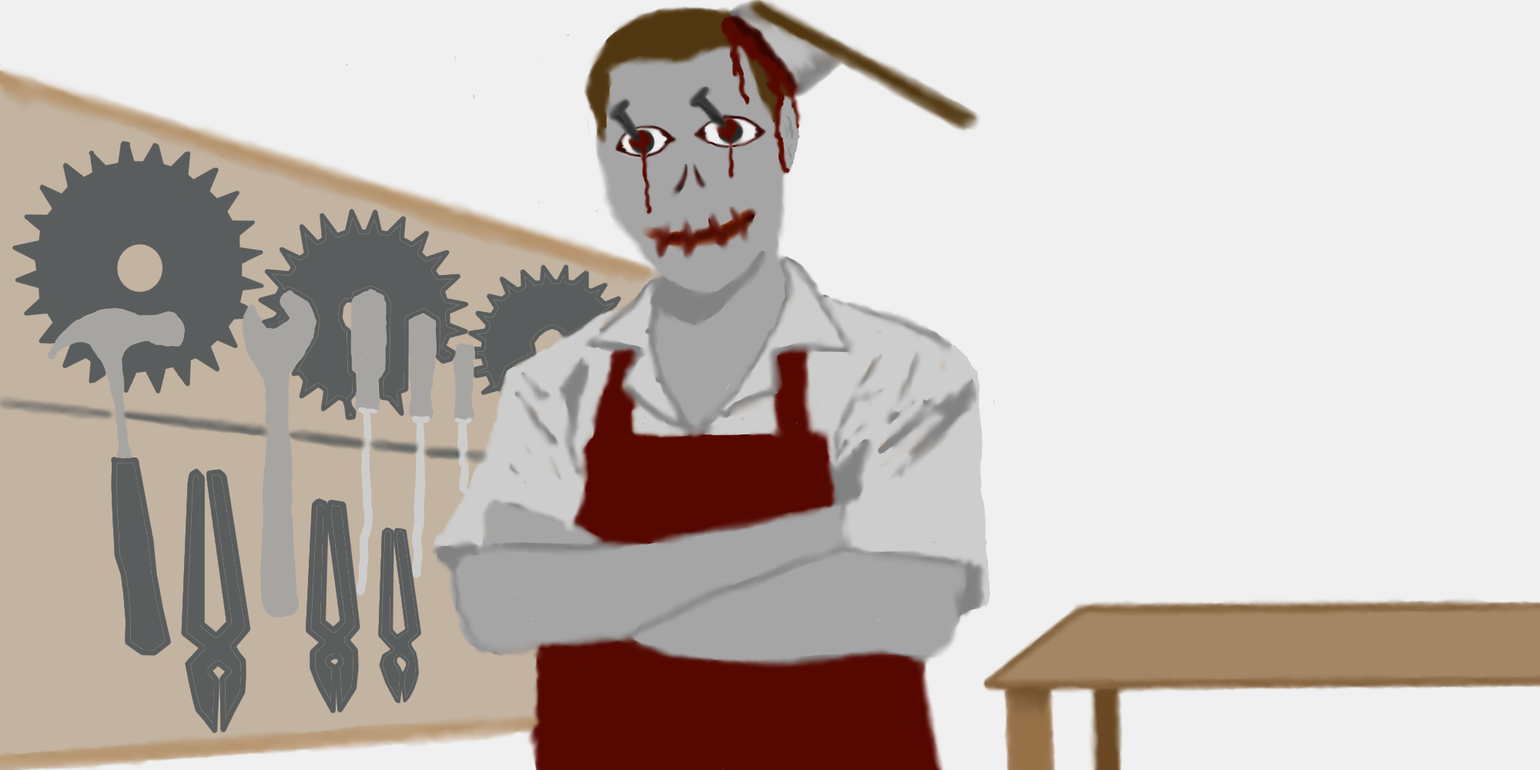
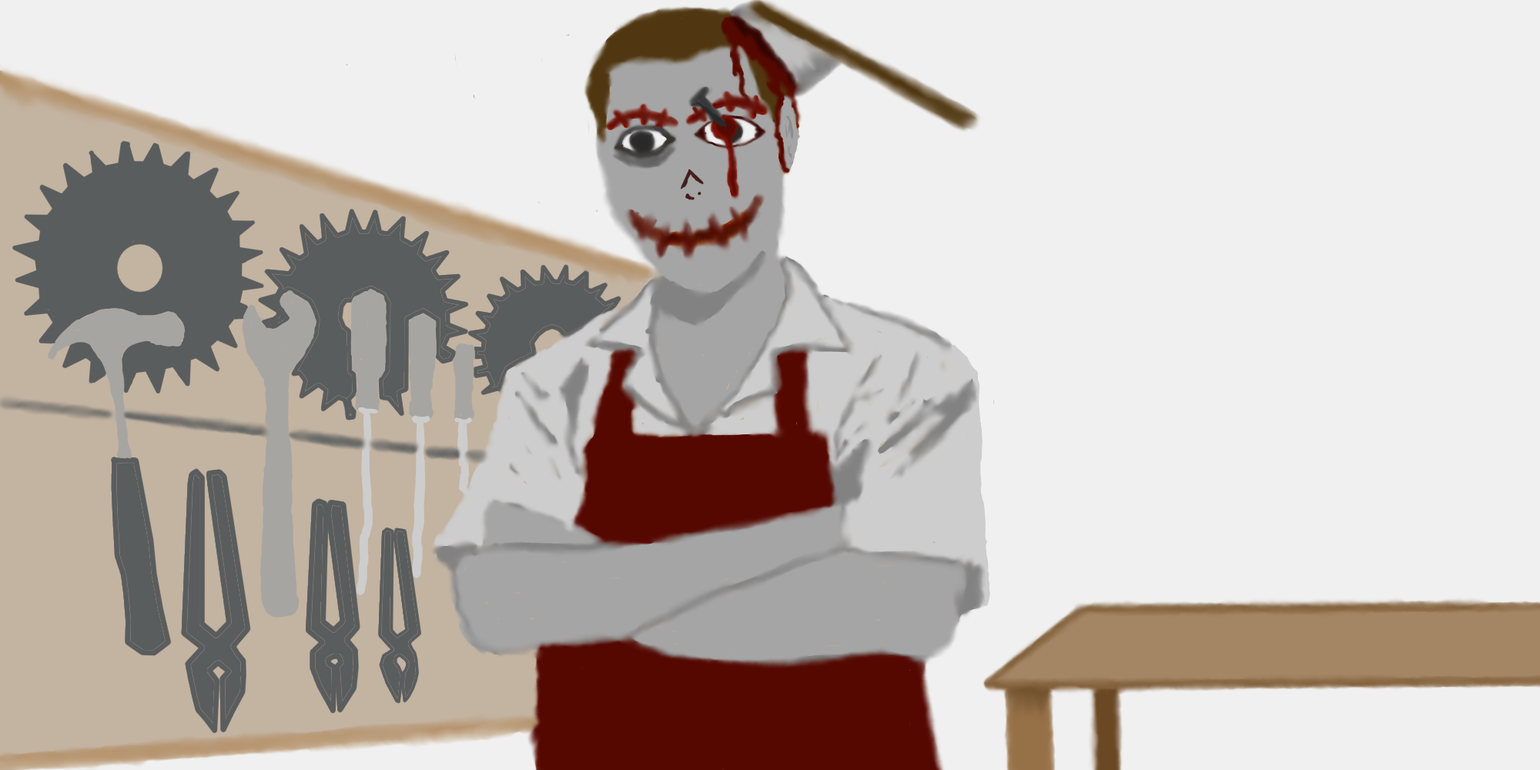
Added Stuff

Changed region(s): [[0.372, 0.124, 0.496, 0.31]]

diff --git a/IGJGameJam.html b/IGJGameJam.html
@@ -98,7 +98,7 @@ var LZString={_keyStr:"ABCDEFGHIJKLMNOPQRSTUVWXYZabcdefghijklmnopqrstuvwxyz01234
 		<div id="init-lacking">Your browser lacks required capabilities. Please upgrade it or switch to another to continue.</div>
 		<div id="init-loading"><div>Loading&hellip;</div></div>
 	</div>
-	<tw-storydata name="IGJGameJam" startnode="1" creator="Twine" creator-version="2.3.14" ifid="14B08805-4DF1-48CB-800A-F47E12B0D9BB" zoom="1" format="SugarCube" format-version="2.34.1" options="" hidden><style role="stylesheet" id="twine-user-stylesheet" type="text/twine-css">@import url('https://fonts.googleapis.com/css?family=Shadows+Into+Light');
+	<tw-storydata name="IGJGameJam" startnode="17" creator="Twine" creator-version="2.3.14" ifid="14B08805-4DF1-48CB-800A-F47E12B0D9BB" zoom="1" format="SugarCube" format-version="2.34.1" options="" hidden><style role="stylesheet" id="twine-user-stylesheet" type="text/twine-css">@import url('https://fonts.googleapis.com/css?family=Shadows+Into+Light');
 @import url('https://fonts.googleapis.com/css?family=Quicksand');
 @import url('https://fonts.googleapis.com/css?family=Electrolize');
 
@@ -121,6 +121,77 @@ img {
 @keyframes fade {
   from {opacity: 0;}
   to {opacity: 1;}
+}
+
+@keyframes shake {
+    0% {color: white}
+  10% {color: #111111}
+  20% {color: #111111}
+  30% {color: white}
+  40% {color: #111111}
+  50% {color: #111111}
+  60% {color: white}
+  70% {color: #111111}
+  80% {color: #111111}
+  90% {color: white}
+  100% {color: #111111}
+  
+}
+
+@keyframes blank {
+    0% {color: #111111}
+  10% {color: #111111}
+  20% {color: #111111}
+  30% {color: #111111}
+  40% {color: #111111}
+  50% {color: #111111}
+  60% {color: #111111}
+  70% {color: #111111}
+  80% {color: #111111}
+  90% {color: #111111}
+  100% {color: #111111}
+  
+}
+
+@keyframes show {
+    0% {color: white}
+  10% {color: white}
+  20% {color: white}
+  30% {color: white}
+  40% {color: white}
+  50% {color: white}
+  60% {color: white}
+  70% {color: white}
+  80% {color: white}
+  90% {color: white}
+  100% {color: white}
+  
+}
+
+.aftertext {
+  color: #111111;
+  animation: show 5s infinite;
+  animation-delay: 7s;
+}
+
+.darktext {
+ color: black; 
+}
+
+.aftertext a{
+  color: #111111;
+  animation: show 5s infinite;
+  animation-delay: 7s;
+}
+
+.flicker {
+  color: #111111;
+  animation: shake 1s 6;
+}
+
+.hiding {
+  animation: blank 1s infinite;
+  animation-delay: 6s;
 }
 
 .firstscene {
@@ -175,8 +246,22 @@ a:hover {
   font-family: Electrolize;
   color: Chartreuse;
   font-size: 500%;
+  animation: blank 1s infinite;
+  animation-delay: 5s;
+}
+
+.emails {
+  font-family: Electrolize;
+  color: Aqua;
+  font-size: 140%
+}
+
+.bold {
+  font-weight: bold;
+  text-decoration: underline;
+  font-size: 160%;
 }</style><script role="script" id="twine-user-script" type="text/twine-javascript">$('#ui-bar').remove();
-$(document.head).find('#style-ui-bar').remove();</script><tw-passagedata pid="1" name="Start" tags="" position="312,99" size="100,100">&lt;&lt;nobr&gt;&gt;
+$(document.head).find('#style-ui-bar').remove();</script><tw-passagedata pid="1" name="Start" tags="" position="307,69" size="100,100">&lt;&lt;nobr&gt;&gt;
 
 &lt;div class=&quot;firstscene&quot;&gt;
 &lt;div class=&quot;opening&quot; &gt;
@@ -207,6 +292,7 @@ To Do List:
 &lt;div class=&quot;gentext&quot;&gt;
 My first task for errand day is always to water my succulents. Otherwise they would die. They sit on the windowsill of the kitchen, getting just the right amount of sun. But lately they’ve been looking quite worse-for-wear. They must be craving something other than water and sunlight.
 &lt;br&gt;
+/*water sound*/
 No, I might have forgotten to water them last week somehow.
 &lt;&lt;set _img1 = &quot;images/plants2.png&quot;&gt;&gt;
 &lt;&lt;set _img2 = &quot;images/plants2.png&quot;&gt;&gt;
@@ -221,12 +307,15 @@ Now to check my emails. The ancient machine always struggles to boot up. It’s 
 &lt;&lt;cacheaudio &quot;computer-on&quot; &quot;https://static.wixstatic.com/mp3/cd6e16_8d407a33674b41da891d106cabb6f881.mp3&quot;&gt;&gt; 
 &lt;&lt;audio computer-on play&gt;&gt;
 &lt;br&gt;
+&lt;div class=&quot;hiding&quot;&gt;
 &lt;&lt;type 180ms&gt;&gt;
 &lt;span class=&quot;loadtext&quot;&gt;LOADING.....&lt;/span&gt;
 &lt;&lt;/type&gt;&gt;
 &lt;br&gt;
-A flicker.
+&lt;div class=&quot;flicker&quot;&gt;A flicker.&lt;/div&gt;
+&lt;/div&gt;
 &lt;br&gt;
+&lt;div class=&quot;aftertext&quot;&gt;
 Suddenly the screen is dark again and the house is filled with a deafening silence.
 &lt;br&gt;
 No rumbling from the fridge.
@@ -234,6 +323,7 @@ No rumbling from the fridge.
 No wheezing computer fans.
 &lt;br&gt;
 The power must have tripped. I’ll have to [[go down into the basement]]. 
+&lt;/div&gt;
 &lt;/div&gt;
 &lt;&lt;/nobr&gt;&gt;</tw-passagedata><tw-passagedata pid="4" name="go down into the basement" tags="" position="661,211" size="100,100">&lt;&lt;nobr&gt;&gt;
 &lt;div class=&quot;gentext&quot;&gt;
@@ -280,6 +370,7 @@ Just spam
 Now I can contend with my physical mail. I have some letters [[to send]] far away.
 &lt;/div&gt;
 &lt;&lt;/nobr&gt;&gt;</tw-passagedata><tw-passagedata pid="7" name="to send" tags="" position="363,387" size="100,100">&lt;&lt;nobr&gt;&gt;
+/*add audio*/
 &lt;&lt;set _img1 = &quot;images/mailbox1.png&quot;&gt;&gt;
 &lt;&lt;set _img2 = &quot;images/mailbox2.png&quot;&gt;&gt;
 /*insert picture*/
@@ -291,7 +382,7 @@ Ouch, I’m bleeding. Just a papercut, of course.
 &lt;br&gt;
 The mailbox is looking a bit rusty. I could get something for it when I [[go to the hardware store|tunnel]].
 &lt;/div&gt;
-&lt;&lt;/nobr&gt;&gt;</tw-passagedata><tw-passagedata pid="8" name="tunnel" tags="" position="531,444" size="100,100">&lt;&lt;nobr&gt;&gt;
+&lt;&lt;/nobr&gt;&gt;</tw-passagedata><tw-passagedata pid="8" name="tunnel" tags="" position="528,445" size="100,100">&lt;&lt;nobr&gt;&gt;
 /*water drop sound*/
 &lt;&lt;cacheaudio &quot;tunnel&quot; &quot;https://static.wixstatic.com/mp3/cd6e16_cd4844cdff204b4ab7221ab47256237f.mp3&quot;&gt;&gt;
 &lt;&lt;audio tunnel loop play&gt;&gt;
@@ -304,13 +395,13 @@ The tunnel is a much quicker way to get to town. Strange that it’s always so q
 onmouseover=&quot;this.src = SugarCube.State.temporary.img2&quot; onmouseleave=&quot;this.src = SugarCube.State.temporary.img1&quot;&gt;&lt;br&gt;
 The shadows are always playing tricks on my eyes. I’ll just pick up my pace as I [[go through|hardware store]]. 
 &lt;/div&gt;
-&lt;&lt;/nobr&gt;&gt;</tw-passagedata><tw-passagedata pid="9" name="hardware store" tags="" position="699,476" size="100,100">&lt;&lt;nobr&gt;&gt;
+&lt;&lt;/nobr&gt;&gt;</tw-passagedata><tw-passagedata pid="9" name="hardware store" tags="" position="693,470" size="100,100">&lt;&lt;nobr&gt;&gt;
 &lt;&lt;audio &quot;:all&quot; stop&gt;&gt;
 /*store bell sound*/
 &lt;div class=&quot;gentext&quot;&gt;
 
 The owner of the hardware store has always been very passionate about his work. He goes above and beyond to ensure his customers are happy.
-&lt;&lt;set _img1 = &quot;images/hardware2.png&quot;&gt;&gt;
+&lt;&lt;set _img1 = &quot;images/hardware1.png&quot;&gt;&gt;
 &lt;&lt;set _img2 = &quot;images/hardware2.png&quot;&gt;&gt;
 &lt;img @src=_img1 
 onmouseover=&quot;this.src = SugarCube.State.temporary.img2&quot; onmouseleave=&quot;this.src = SugarCube.State.temporary.img1&quot;&gt;
@@ -325,7 +416,7 @@ I choose one that’s just right for my needs. I pay for it. Now I can [[go to t
 The barber shop smells of disinfectant, shampoo, and… something else. Something familiar. I’m greeted cheerfully. The barber beckons to a chair and I take a seat. 
 &lt;br&gt;
 /*haircut sound*/
-&lt;&lt;set _img1 = &quot;images/barber2.png&quot;&gt;&gt;
+&lt;&lt;set _img1 = &quot;images/barber1.png&quot;&gt;&gt;
 &lt;&lt;set _img2 = &quot;images/barber2.png&quot;&gt;&gt;
 &lt;img @src=_img1 
 onmouseover=&quot;this.src = SugarCube.State.temporary.img2&quot; onmouseleave=&quot;this.src = SugarCube.State.temporary.img1&quot;&gt;
@@ -375,14 +466,77 @@ I’m finally on my way to buy milk. There’s a dog on the side of the road. It
 &lt;&lt;set _img1 = &quot;images/dog1.png&quot;&gt;&gt;
 &lt;&lt;set _img2 = &quot;images/dog2.png&quot;&gt;&gt;
 &lt;img @src=_img1 
-onmouseover=&quot;this.src = SugarCube.State.temporary.img2&quot; onmouseleave=&quot;this.src = SugarCube.State.temporary.img1&quot;&gt;/*growling noise*/
+onmouseover=&quot;this.src = SugarCube.State.temporary.img2&quot; onmouseleave=&quot;this.src = SugarCube.State.temporary.img1&quot;&gt;
+/*growling noise*/
 Or is it…? No, can’t be.
 &lt;br&gt;
 It’s probably just dirty. Its fur must be matted. 
 &lt;br&gt;
 Nevermind. I need to [[get to the grocery store]].
 &lt;/div&gt;
-&lt;&lt;/nobr&gt;&gt;</tw-passagedata><tw-passagedata pid="13" name="get to the grocery store" tags="" position="859,487" size="100,100">Double-click this passage to edit it.</tw-passagedata></tw-storydata>
+&lt;&lt;/nobr&gt;&gt;</tw-passagedata><tw-passagedata pid="13" name="get to the grocery store" tags="" position="941,573" size="100,100">&lt;&lt;nobr&gt;&gt;
+/*buzzing fridge sound*/
+&lt;div class=&quot;gentext&quot;&gt;
+It’s getting dark now but the grocery store is painfully bright. The fluorescent lights reveal how old and dingy the store is. I head to the fridge section.
+&lt;br&gt;
+Ah, milk. I’ll be able to have breakfast tomorrow.
+&lt;br&gt;
+/*insert picture*/
+&lt;&lt;set _img1 = &quot;images/shopkeeper1.png&quot;&gt;&gt;
+&lt;&lt;set _img2 = &quot;images/shopkeeper2.png&quot;&gt;&gt;
+&lt;img @src=_img1 
+onmouseover=&quot;this.src = SugarCube.State.temporary.img2&quot; onmouseleave=&quot;this.src = SugarCube.State.temporary.img1&quot;&gt;
+The cashier smiles. It seems like she knows I can see now. I can cross off the final task on my to-do list and [[go home]]. 
+&lt;/div&gt;
+&lt;&lt;/nobr&gt;&gt;</tw-passagedata><tw-passagedata pid="14" name="go home" tags="" position="397,576" size="100,100">&lt;&lt;nobr&gt;&gt;
+&lt;div class=&quot;gentext&quot;&gt;
+Today was… eye-opening. 
+All this time I had convinced myself of a false reality. I had been living in ignorance of my true surroundings.
+/*insert pciture*/
+&lt;&lt;set _img1 = &quot;images/mirror1.png&quot;&gt;&gt;
+&lt;&lt;set _img2 = &quot;images/mirror2.png&quot;&gt;&gt;
+&lt;img @src=_img1 
+onmouseover=&quot;this.src = SugarCube.State.temporary.img2&quot; onmouseleave=&quot;this.src = SugarCube.State.temporary.img1&quot;&gt;
+&lt;br&gt;
+But now the fog that had shrouded my mind has been lifted. I see everything in its true form. 
+&lt;br&gt;
+I see myself in [[my true form]].
+&lt;/div&gt;
+&lt;&lt;/nobr&gt;&gt;</tw-passagedata><tw-passagedata pid="15" name="my true form" tags="" position="792,610" size="100,100">&lt;&lt;nobr&gt;&gt;
+&lt;div class=&quot;gentext&quot;&gt;
+As always, the second moon is leering over the horizon. Just an ordinary day.
+/*insert moon pic*/
+&lt;img src=&quot;images/window_night.png&quot;&gt;
+&lt;br&gt;
+The End
+&lt;br&gt;
+
+[[Credits]]
+
+&lt;/div&gt;
+
+&lt;&lt;/nobr&gt;&gt;</tw-passagedata><tw-passagedata pid="16" name="Credits" tags="" position="552,665" size="100,100">&lt;&lt;nobr&gt;&gt;
+&lt;div class=&quot;gentext&quot;&gt;
+&lt;span class=&quot;bold&quot;&gt;Team Lactose Intolerance&lt;/span&gt;
+&lt;br&gt;
+Erin Hutton
+&lt;br&gt;
+Fefe Magabeane
+&lt;br&gt;
+Michaela du Preez
+&lt;br&gt;
+Sabelo Nkwanyana
+&lt;br&gt;
+Brendan Jackson
+&lt;/div&gt;
+&lt;&lt;/nobr&gt;&gt;</tw-passagedata><tw-passagedata pid="17" name="Menu" tags="" position="137,84.5" size="100,100">&lt;&lt;nobr&gt;&gt;
+&lt;div class=&quot;gentext&quot;&gt;
+&lt;span class=&quot;bold&quot;&gt;An Ordinary Day &lt;/span&gt;
+/*picture*/
+&lt;br&gt;
+[[Begin|Start]]
+&lt;/div&gt;
+&lt;&lt;/nobr&gt;&gt;</tw-passagedata></tw-storydata>
 	<script id="script-sugarcube" type="text/javascript">
 	/*! SugarCube JS */
 	if(document.documentElement.getAttribute("data-init")==="loading"){!function(window,document,jQuery,undefined){"use strict";function _classCallCheck(e,t){if(!(e instanceof t))throw new TypeError("Cannot call a class as a function")}function _toConsumableArray(e){if(Array.isArray(e)){for(var t=0,r=Array(e.length);t<e.length;t++)r[t]=e[t];return r}return Array.from(e)}var _createClass=function(){function e(e,t){for(var r=0;r<t.length;r++){var n=t[r];n.enumerable=n.enumerable||!1,n.configurable=!0,"value"in n&&(n.writable=!0),Object.defineProperty(e,n.key,n)}}return function(t,r,n){return r&&e(t.prototype,r),n&&e(t,n),t}}(),_slicedToArray=function(){function e(e,t){var r=[],n=!0,a=!1,i=undefined;try{for(var o,s=e[Symbol.iterator]();!(n=(o=s.next()).done)&&(r.push(o.value),!t||r.length!==t);n=!0);}catch(e){a=!0,i=e}finally{try{!n&&s.return&&s.return()}finally{if(a)throw i}}return r}return function(t,r){if(Array.isArray(t))return t;if(Symbol.iterator in Object(t))return e(t,r);throw new TypeError("Invalid attempt to destructure non-iterable instance")}}(),_typeof="function"==typeof Symbol&&"symbol"==typeof Symbol.iterator?function(e){return typeof e}:function(e){return e&&"function"==typeof Symbol&&e.constructor===Symbol&&e!==Symbol.prototype?"symbol":typeof e},errorPrologRegExp=/^(?:(?:uncaught\s+(?:exception:\s+)?)?\w*(?:error|exception|_err):\s+)+/i,Alert=function(){function e(e,t,r,n){var a="fatal"===e,i="Apologies! "+(a?"A fatal":"An")+" error has occurred.";i+=a?" Aborting.":" You may be able to continue, but some parts may not work properly.",null==t&&null==r||(i+="\n\nError",null!=t&&(i+=" ["+t+"]"),i+=null!=r?": "+r.replace(errorPrologRegExp,"")+".":": unknown error."),"object"===(void 0===n?"undefined":_typeof(n))&&null!==n&&n.stack&&(i+="\n\nStack Trace:\n"+n.stack),window.alert(i)}function t(t,r,n){e(null,t,r,n)}function r(t,r,n){e("fatal",t,r,n)}return function(e){window.onerror=function(n,a,i,o,s){"complete"===document.readyState?t(null,n,s):(r(null,n,s),window.onerror=e,"function"==typeof window.onerror&&window.onerror.apply(this,arguments))}}(window.onerror),Object.freeze(Object.defineProperties({},{error:{value:t},fatal:{value:r}}))}(),Patterns=function(){var e=function(){var e=new Map([[" ","\\u0020"],["\f","\\f"],["\n","\\n"],["\r","\\r"],["\t","\\t"],["\v","\\v"],[" ","\\u00a0"],[" ","\\u1680"],["","\\u180e"],[" ","\\u2000"],[" ","\\u2001"],[" ","\\u2002"],[" ","\\u2003"],[" ","\\u2004"],[" ","\\u2005"],[" ","\\u2006"],[" ","\\u2007"],[" ","\\u2008"],[" ","\\u2009"],[" ","\\u200a"],["\u2028","\\u2028"],["\u2029","\\u2029"],[" ","\\u202f"],[" ","\\u205f"],["　","\\u3000"],["\ufeff","\\ufeff"]]),t=/^\s$/,r="";return e.forEach(function(e,n){t.test(n)||(r+=e)}),r?"[\\s"+r+"]":"\\s"}(),t="[\\u0020\\f\\t\\v\\u00a0\\u1680\\u180e\\u2000-\\u200a\\u202f\\u205f\\u3000\\ufeff]",r="\\s"===e?"\\S":e.replace(/^\[/,"[^"),n="[0-9A-Z_a-z\\-\\u00c0-\\u00d6\\u00d8-\\u00f6\\u00f8-\\u00ff\\u0150\\u0170\\u0151\\u0171]",a=n.replace("\\-",""),i=function(){var e="(?:[\\x2D.0-9A-Z_a-z\\xB7\\xC0-\\xD6\\xD8-\\xF6\\xF8-\\u037D\\u037F-\\u1FFF\\u200C\\u200D\\u203F\\u2040\\u2070-\\u218F\\u2C00-\\u2FEF\\u3001-\\uD7FF\\uF900-\\uFDCF\\uFDF0-\\uFFFD]|[\\uD800-\\uDB7F][\\uDC00-\\uDFFF])";return"[A-Za-z](?:"+e+"*-"+e+"*|[0-9A-Za-z]*)"}(),o=function(){return"("+n+"+)\\(([^\\)\\|\\n]+)\\):|"+t+"*("+n+"+)"+t+"*:([^;\\|\\n]+);|"+t+"*((?:[#.]"+n+"+"+t+"*)+);"}();return Object.freeze({space:e,spaceNoTerminator:t,lineTerminator:"[\\n\\r\\u2028\\u2029]",notSpace:r,anyChar:"(?:.|[\\n\\r\\u2028\\u2029])",anyLetter:n,anyLetterStrict:a,identifierFirstChar:"[$A-Z_a-z]",identifierNextChar:"[$0-9A-Z_a-z]",identifier:"[$A-Z_a-z][$0-9A-Z_a-z]*",variableSigil:"[$_]",variable:"[$_][$A-Z_a-z][$0-9A-Z_a-z]*",macroName:"[A-Za-z][\\w-]*|[=-]",templateName:"[A-Za-z][\\w-]*",htmlTagName:i,cssIdOrClassSigil:"[#.]",cssImage:"\\[[<>]?[Ii][Mm][Gg]\\[(?:\\s|\\S)*?\\]\\]+",inlineCss:o,url:"(?:file|https?|mailto|ftp|javascript|irc|news|data):[^\\s'\"]+"})}();!function(){function e(e,t){var r=Number.parseInt(e,10)||0;if(r<1)return"";var n=void 0===t?"":String(t);for(""===n&&(n=" ");n.length<r;){var a=n.length,i=r-a;n+=a>i?n.slice(0,i):n}return n.length>r&&(n=n.slice(0,r)),n}var t=function(){function e(e,n){var a=String(e);if(!a)return a;switch(n){case"start":return t.test(a)?a.replace(t,""):a;case"end":return r.test(a)?a.replace(r,""):a;default:throw new Error('_trimString called with incorrect where parameter value: "'+n+'"')}}var t=new RegExp("^"+Patterns.space+Patterns.space+"*"),r=new RegExp(""+Patterns.space+Patterns.space+"*$");return e}();Array.prototype.flat||Object.defineProperty(Array.prototype,"flat",{configurable:!0,writable:!0,value:function(){function e(){if(null==this)throw new TypeError("Array.prototype.flat called on null or undefined");var t=0===arguments.length?1:Number(arguments[0])||0;return t<1?Array.prototype.slice.call(this):Array.prototype.reduce.call(this,function(r,n){return n instanceof Array?r.push.apply(r,_toConsumableArray(e.call(n,t-1))):r.push(n),r},[])}return e}()}),Array.prototype.flatMap||Object.defineProperty(Array.prototype,"flatMap",{configurable:!0,writable:!0,value:function(){if(null==this)throw new TypeError("Array.prototype.flatMap called on null or undefined");return Array.prototype.map.apply(this,arguments).flat()}}),Array.prototype.includes||Object.defineProperty(Array.prototype,"includes",{configurable:!0,writable:!0,value:function(){if(null==this)throw new TypeError("Array.prototype.includes called on null or undefined");if(0===arguments.length)return!1;var e=this.length>>>0;if(0===e)return!1;var t=arguments[0],r=Number(arguments[1])||0;for(r<0&&(r=Math.max(0,e+r));r<e;++r){var n=this[r];if(n===t||n!==n&&t!==t)return!0}return!1}}),Object.entries||Object.defineProperty(Object,"entries",{configurable:!0,writable:!0,value:function(e){if("object"!==(void 0===e?"undefined":_typeof(e))||null===e)throw new TypeError("Object.entries object parameter must be an object");return Object.keys(e).map(function(t){return[t,e[t]]})}}),Object.fromEntries||Object.defineProperty(Object,"fromEntries",{configurable:!0,writable:!0,value:function(e){return Array.from(e).reduce(function(e,t){if(Object(t)!==t)throw new TypeError("Object.fromEntries iterable parameter must yield objects");return t[0]in e?Object.defineProperty(e,t[0],{configurable:!0,enumerable:!0,writable:!0,value:t[1]}):e[t[0]]=t[1],e},{})}}),Object.getOwnPropertyDescriptors||Object.defineProperty(Object,"getOwnPropertyDescriptors",{configurable:!0,writable:!0,value:function(e){if(null==e)throw new TypeError("Object.getOwnPropertyDescriptors object parameter is null or undefined");var t=Object(e);return Reflect.ownKeys(t).reduce(function(e,r){var n=Object.getOwnPropertyDescriptor(t,r);return void 0!==n&&(r in e?Object.defineProperty(e,r,{configurable:!0,enumerable:!0,writable:!0,value:n}):e[r]=n),e},{})}}),Object.values||Object.defineProperty(Object,"values",{configurable:!0,writable:!0,value:function(e){if("object"!==(void 0===e?"undefined":_typeof(e))||null===e)throw new TypeError("Object.values object parameter must be an object");return Object.keys(e).map(function(t){return e[t]})}}),String.prototype.padStart||Object.defineProperty(String.prototype,"padStart",{configurable:!0,writable:!0,value:function(t,r){if(null==this)throw new TypeError("String.prototype.padStart called on null or undefined");var n=String(this),a=n.length,i=Number.parseInt(t,10);return i<=a?n:e(i-a,r)+n}}),String.prototype.padEnd||Object.defineProperty(String.prototype,"padEnd",{configurable:!0,writable:!0,value:function(t,r){if(null==this)throw new TypeError("String.prototype.padEnd called on null or undefined");var n=String(this),a=n.length,i=Number.parseInt(t,10);return i<=a?n:n+e(i-a,r)}}),String.prototype.trimStart||Object.defineProperty(String.prototype,"trimStart",{configurable:!0,writable:!0,value:function(){if(null==this)throw new TypeError("String.prototype.trimStart called on null or undefined");return t(this,"start")}}),String.prototype.trimLeft||Object.defineProperty(String.prototype,"trimLeft",{configurable:!0,writable:!0,value:function(){if(null==this)throw new TypeError("String.prototype.trimLeft called on null or undefined");return t(this,"start")}}),String.prototype.trimEnd||Object.defineProperty(String.prototype,"trimEnd",{configurable:!0,writable:!0,value:function(){if(null==this)throw new TypeError("String.prototype.trimEnd called on null or undefined");return t(this,"end")}}),String.prototype.trimRight||Object.defineProperty(String.prototype,"trimRight",{configurable:!0,writable:!0,value:function(){if(null==this)throw new TypeError("String.prototype.trimRight called on null or undefined");return t(this,"end")}})}(),function(){function _random(){var e=void 0,t=void 0;switch(arguments.length){case 0:throw new Error("_random called with insufficient parameters");case 1:e=0,t=arguments[0];break;default:e=arguments[0],t=arguments[1]}if(e>t){var r=[t,e];e=r[0],t=r[1]}return Math.floor(_nativeMathRandom()*(t-e+1))+e}function _randomIndex(e,t){var r=void 0,n=void 0;switch(t.length){case 1:r=0,n=e-1;break;case 2:r=0,n=Math.trunc(t[1]);break;default:r=Math.trunc(t[1]),n=Math.trunc(t[2])}return Number.isNaN(r)?r=0:!Number.isFinite(r)||r>=e?r=e-1:r<0&&(r=e+r)<0&&(r=0),Number.isNaN(n)?n=0:!Number.isFinite(n)||n>=e?n=e-1:n<0&&(n=e+n)<0&&(n=e-1),_random(r,n)}function _getCodePointStartAndEnd(e,t){var r=e.charCodeAt(t);if(Number.isNaN(r))return{char:"",start:-1,end:-1};if(r<55296||r>57343)return{char:e.charAt(t),start:t,end:t};if(r>=55296&&r<=56319){var n=t+1;if(n>=e.length)throw new Error("high surrogate without trailing low surrogate");var a=e.charCodeAt(n);if(a<56320||a>57343)throw new Error("high surrogate without trailing low surrogate");return{char:e.charAt(t)+e.charAt(n),start:t,end:n}}if(0===t)throw new Error("low surrogate without leading high surrogate");var i=t-1,o=e.charCodeAt(i);if(o<55296||o>56319)throw new Error("low surrogate without leading high surrogate");return{char:e.charAt(i)+e.charAt(t),start:i,end:t}}var _nativeMathRandom=Math.random;Object.defineProperty(Array,"random",{configurable:!0,writable:!0,value:function(e){if("object"!==(void 0===e?"undefined":_typeof(e))||null===e||!Object.prototype.hasOwnProperty.call(e,"length"))throw new TypeError("Array.random array parameter must be an array or array-lke object");var t=e.length>>>0;if(0!==t){return e[0===arguments.length?_random(0,t-1):_randomIndex(t,Array.prototype.slice.call(arguments,1))]}}}),Object.defineProperty(Array.prototype,"concatUnique",{configurable:!0,writable:!0,value:function(){if(null==this)throw new TypeError("Array.prototype.concatUnique called on null or undefined");var e=Array.from(this);if(0===arguments.length)return e;var t=Array.prototype.reduce.call(arguments,function(e,t){return e.concat(t)},[]),r=t.length;if(0===r)return e;for(var n=Array.prototype.indexOf,a=Array.prototype.push,i=0;i<r;++i){var o=t[i];-1===n.call(e,o)&&a.call(e,o)}return e}}),Object.defineProperty(Array.prototype,"count",{configurable:!0,writable:!0,value:function(){if(null==this)throw new TypeError("Array.prototype.count called on null or undefined");for(var e=Array.prototype.indexOf,t=arguments[0],r=Number(arguments[1])||0,n=0;-1!==(r=e.call(this,t,r));)++n,++r;return n}}),Object.defineProperty(Array.prototype,"delete",{configurable:!0,writable:!0,value:function(){if(null==this)throw new TypeError("Array.prototype.delete called on null or undefined");if(0===arguments.length)return[];var e=this.length>>>0;if(0===e)return[];for(var t=Array.prototype.concat.apply([],arguments),r=t.length,n=[],a=0;a<e;++a)for(var i=this[a],o=0;o<r;++o){var s=t[o];if(i===s||i!==i&&s!==s){n.push(a);break}}for(var u=[],l=0,c=n.length;l<c;++l)u[l]=this[n[l]];for(var d=Array.prototype.splice,f=n.length-1;f>=0;--f)d.call(this,n[f],1);return u}}),Object.defineProperty(Array.prototype,"deleteAt",{configurable:!0,writable:!0,value:function(){if(null==this)throw new TypeError("Array.prototype.deleteAt called on null or undefined");if(0===arguments.length)return[];var e=this.length>>>0;if(0===e)return[];for(var t=Array.prototype.splice,r=[].concat(_toConsumableArray(new Set(Array.prototype.concat.apply([],arguments).map(function(t){return t<0?Math.max(0,e+t):t})).values())),n=[].concat(_toConsumableArray(r)).sort(function(e,t){return t-e}),a=[],i=0,o=r.length;i<o;++i)a[i]=this[r[i]];for(var s=0,u=n.length;s<u;++s)t.call(this,n[s],1);return a}}),Object.defineProperty(Array.prototype,"deleteWith",{configurable:!0,writable:!0,value:function(e,t){if(null==this)throw new TypeError("Array.prototype.deleteWith called on null or undefined");if("function"!=typeof e)throw new Error("Array.prototype.deleteWith predicate parameter must be a function");var r=this.length>>>0;if(0===r)return[];for(var n=Array.prototype.splice,a=[],i=[],o=0;o<r;++o)e.call(t,this[o],o,this)&&(i.push(this[o]),a.push(o));for(var s=a.length-1;s>=0;--s)n.call(this,a[s],1);return i}}),Object.defineProperty(Array.prototype,"first",{configurable:!0,writable:!0,value:function(){if(null==this)throw new TypeError("Array.prototype.first called on null or undefined");if(0!=this.length>>>0)return this[0]}}),Object.defineProperty(Array.prototype,"includesAll",{configurable:!0,writable:!0,value:function(){if(null==this)throw new TypeError("Array.prototype.includesAll called on null or undefined");if(1===arguments.length)return Array.isArray(arguments[0])?Array.prototype.includesAll.apply(this,arguments[0]):Array.prototype.includes.apply(this,arguments);for(var e=0,t=arguments.length;e<t;++e)if(!Array.prototype.some.call(this,function(e){return e===this.val||e!==e&&this.val!==this.val},{val:arguments[e]}))return!1;return!0}}),Object.defineProperty(Array.prototype,"includesAny",{configurable:!0,writable:!0,value:function(){if(null==this)throw new TypeError("Array.prototype.includesAny called on null or undefined");if(1===arguments.length)return Array.isArray(arguments[0])?Array.prototype.includesAny.apply(this,arguments[0]):Array.prototype.includes.apply(this,arguments);for(var e=0,t=arguments.length;e<t;++e)if(Array.prototype.some.call(this,function(e){return e===this.val||e!==e&&this.val!==this.val},{val:arguments[e]}))return!0;return!1}}),Object.defineProperty(Array.prototype,"last",{configurable:!0,writable:!0,value:function(){if(null==this)throw new TypeError("Array.prototype.last called on null or undefined");var e=this.length>>>0;if(0!==e)return this[e-1]}}),Object.defineProperty(Array.prototype,"pluck",{configurable:!0,writable:!0,value:function(){if(null==this)throw new TypeError("Array.prototype.pluck called on null or undefined");var e=this.length>>>0;if(0!==e){var t=0===arguments.length?_random(0,e-1):_randomIndex(e,[].concat(Array.prototype.slice.call(arguments)));return Array.prototype.splice.call(this,t,1)[0]}}}),Object.defineProperty(Array.prototype,"pluckMany",{configurable:!0,writable:!0,value:function(e){if(null==this)throw new TypeError("Array.prototype.pluckMany called on null or undefined");var t=this.length>>>0;if(0===t)return[];var r=Math.trunc(e);if(!Number.isInteger(r))throw new Error("Array.prototype.pluckMany want parameter must be an integer");if(r<1)return[];r>t&&(r=t);var n=Array.prototype.splice,a=[],i=t-1;do{a.push(n.call(this,_random(0,i--),1)[0])}while(a.length<r);return a}}),Object.defineProperty(Array.prototype,"pushUnique",{configurable:!0,writable:!0,value:function(){if(null==this)throw new TypeError("Array.prototype.pushUnique called on null or undefined");var e=arguments.length;if(0===e)return this.length>>>0;for(var t=Array.prototype.indexOf,r=Array.prototype.push,n=0;n<e;++n){var a=arguments[n];-1===t.call(this,a)&&r.call(this,a)}return this.length>>>0}}),Object.defineProperty(Array.prototype,"random",{configurable:!0,writable:!0,value:function(){if(null==this)throw new TypeError("Array.prototype.random called on null or undefined");var e=this.length>>>0;if(0!==e){return this[0===arguments.length?_random(0,e-1):_randomIndex(e,[].concat(Array.prototype.slice.call(arguments)))]}}}),Object.defineProperty(Array.prototype,"randomMany",{configurable:!0,writable:!0,value:function(e){if(null==this)throw new TypeError("Array.prototype.randomMany called on null or undefined");var t=this.length>>>0;if(0===t)return[];var r=Math.trunc(e);if(!Number.isInteger(r))throw new Error("Array.prototype.randomMany want parameter must be an integer");if(r<1)return[];r>t&&(r=t);var n=new Map,a=[],i=t-1;do{var o=void 0;do{o=_random(0,i)}while(n.has(o));n.set(o,!0),a.push(this[o])}while(a.length<r);return a}}),Object.defineProperty(Array.prototype,"shuffle",{configurable:!0,writable:!0,value:function(){if(null==this)throw new TypeError("Array.prototype.shuffle called on null or undefined");var e=this.length>>>0;if(0===e)return this;for(var t=e-1;t>0;--t){var r=Math.floor(_nativeMathRandom()*(t+1));if(t!==r){var n=this[t];this[t]=this[r],this[r]=n}}return this}}),Object.defineProperty(Array.prototype,"unshiftUnique",{configurable:!0,writable:!0,value:function(){if(null==this)throw new TypeError("Array.prototype.unshiftUnique called on null or undefined");var e=arguments.length;if(0===e)return this.length>>>0;for(var t=Array.prototype.indexOf,r=Array.prototype.unshift,n=0;n<e;++n){var a=arguments[n];-1===t.call(this,a)&&r.call(this,a)}return this.length>>>0}}),Object.defineProperty(Function.prototype,"partial",{configurable:!0,writable:!0,value:function(){if(null==this)throw new TypeError("Function.prototype.partial called on null or undefined");var e=Array.prototype.slice,t=this,r=e.call(arguments,0);return function(){for(var n=[],a=0,i=0;i<r.length;++i)n.push(r[i]===undefined?arguments[a++]:r[i]);return t.apply(this,n.concat(e.call(arguments,a)))}}}),Object.defineProperty(Math,"clamp",{configurable:!0,writable:!0,value:function(e,t,r){var n=Number(e);return Number.isNaN(n)?NaN:n.clamp(t,r)}}),Object.defineProperty(Math,"easeInOut",{configurable:!0,writable:!0,value:function(e){return 1-(Math.cos(Number(e)*Math.PI)+1)/2}}),Object.defineProperty(Number.prototype,"clamp",{configurable:!0,writable:!0,value:function(){if(null==this)throw new TypeError("Number.prototype.clamp called on null or undefined");if(2!==arguments.length)throw new Error("Number.prototype.clamp called with an incorrect number of parameters");var e=Number(arguments[0]),t=Number(arguments[1]);if(e>t){var r=[t,e];e=r[0],t=r[1]}return Math.min(Math.max(this,e),t)}}),RegExp.escape||function(){var e=/[\\^$*+?.()|[\]{}]/g,t=new RegExp(e.source);Object.defineProperty(RegExp,"escape",{configurable:!0,writable:!0,value:function(r){var n=String(r);return n&&t.test(n)?n.replace(e,"\\$&"):n}})}(),function(){var e=/{(\d+)(?:,([+-]?\d+))?}/g,t=new RegExp(e.source);Object.defineProperty(String,"format",{configurable:!0,writable:!0,value:function(r){function n(e,t,r){if(!t)return e;var n=Math.abs(t)-e.length;if(n<1)return e;var a=String(r).repeat(n);return t<0?e+a:a+e}if(arguments.length<2)return 0===arguments.length?"":r;var a=2===arguments.length&&Array.isArray(arguments[1])?[].concat(_toConsumableArray(arguments[1])):Array.prototype.slice.call(arguments,1);return 0===a.length?r:t.test(r)?(e.lastIndex=0,r.replace(e,function(e,t,r){var i=a[t];if(null==i)return"";for(;"function"==typeof i;)i=i();switch(void 0===i?"undefined":_typeof(i)){case"string":break;case"object":i=JSON.stringify(i);break;default:i=String(i)}return n(i,r?Number.parseInt(r,10):0," ")})):r}})}(),Object.defineProperty(String.prototype,"contains",{configurable:!0,writable:!0,value:function(){if(null==this)throw new TypeError("String.prototype.contains called on null or undefined");return-1!==String.prototype.indexOf.apply(this,arguments)}}),Object.defineProperty(String.prototype,"count",{configurable:!0,writable:!0,value:function(){if(null==this)throw new TypeError("String.prototype.count called on null or undefined");var e=String(arguments[0]||"");if(""===e)return 0;for(var t=String.prototype.indexOf,r=e.length,n=Number(arguments[1])||0,a=0;-1!==(n=t.call(this,e,n));)++a,n+=r;return a}}),Object.defineProperty(String.prototype,"first",{configurable:!0,writable:!0,value:function(){if(null==this)throw new TypeError("String.prototype.first called on null or undefined");return _getCodePointStartAndEnd(String(this),0).char}}),Object.defineProperty(String.prototype,"last",{configurable:!0,writable:!0,value:function(){if(null==this)throw new TypeError("String.prototype.last called on null or undefined");var e=String(this);return _getCodePointStartAndEnd(e,e.length-1).char}}),Object.defineProperty(String.prototype,"splice",{configurable:!0,writable:!0,value:function(e,t,r){if(null==this)throw new TypeError("String.prototype.splice called on null or undefined");var n=this.length>>>0;if(0===n)return"";var a=Number(e);Number.isSafeInteger(a)?a<0&&(a+=n)<0&&(a=0):a=0,a>n&&(a=n);var i=Number(t);(!Number.isSafeInteger(i)||i<0)&&(i=0);var o=this.slice(0,a);return void 0!==r&&(o+=r),a+i<n&&(o+=this.slice(a+i)),o}}),Object.defineProperty(String.prototype,"splitOrEmpty",{configurable:!0,writable:!0,value:function(){if(null==this)throw new TypeError("String.prototype.splitOrEmpty called on null or undefined");return""===String(this)?[]:String.prototype.split.apply(this,arguments)}}),Object.defineProperty(String.prototype,"toLocaleUpperFirst",{configurable:!0,writable:!0,value:function(){if(null==this)throw new TypeError("String.prototype.toLocaleUpperFirst called on null or undefined");var e=String(this),t=_getCodePointStartAndEnd(e,0),r=t.char,n=t.end;return-1===n?"":r.toLocaleUpperCase()+e.slice(n+1)}}),Object.defineProperty(String.prototype,"toUpperFirst",{configurable:!0,writable:!0,value:function(){if(null==this)throw new TypeError("String.prototype.toUpperFirst called on null or undefined");var e=String(this),t=_getCodePointStartAndEnd(e,0),r=t.char,n=t.end;return-1===n?"":r.toUpperCase()+e.slice(n+1)}}),Object.defineProperty(Date.prototype,"toJSON",{configurable:!0,writable:!0,value:function(){return["(revive:date)",this.toISOString()]}}),Object.defineProperty(Function.prototype,"toJSON",{configurable:!0,writable:!0,value:function(){return["(revive:eval)","("+this.toString()+")"]}}),Object.defineProperty(Map.prototype,"toJSON",{configurable:!0,writable:!0,value:function(){return["(revive:map)",[].concat(_toConsumableArray(this))]}}),Object.defineProperty(RegExp.prototype,"toJSON",{configurable:!0,writable:!0,value:function(){return["(revive:eval)",this.toString()]}}),Object.defineProperty(Set.prototype,"toJSON",{configurable:!0,writable:!0,value:function(){return["(revive:set)",[].concat(_toConsumableArray(this))]}}),Object.defineProperty(JSON,"reviveWrapper",{configurable:!0,writable:!0,value:function(e,t){if("string"!=typeof e)throw new TypeError("JSON.reviveWrapper code parameter must be a string");return["(revive:eval)",[e,t]]}}),Object.defineProperty(JSON,"_real_stringify",{value:JSON.stringify}),Object.defineProperty(JSON,"stringify",{configurable:!0,writable:!0,value:function(e,t,r){return JSON._real_stringify(e,function(e,r){var n=r;if("function"==typeof t)try{n=t(e,n)}catch(e){}return void 0===n&&(n=["(revive:eval)","undefined"]),n},r)}}),Object.defineProperty(JSON,"_real_parse",{value:JSON.parse}),Object.defineProperty(JSON,"parse",{configurable:!0,writable:!0,value:function value(text,reviver){return JSON._real_parse(text,function(key,val){var value=val;if(Array.isArray(value)&&2===value.length)switch(value[0]){case"(revive:set)":value=new Set(value[1]);break;case"(revive:map)":value=new Map(value[1]);break;case"(revive:date)":value=new Date(value[1]);break;case"(revive:eval)":try{if(Array.isArray(value[1])){var $ReviveData$=value[1][1];value=eval(value[1][0])}else value=eval(value[1])}catch(e){}}else if("string"==typeof value&&"@@revive@@"===value.slice(0,10))try{value=eval(value.slice(10))}catch(e){}if("function"==typeof reviver)try{value=reviver(key,value)}catch(e){}return value})}}),Object.defineProperty(Array.prototype,"contains",{configurable:!0,writable:!0,value:function(){if(null==this)throw new TypeError("Array.prototype.contains called on null or undefined");return Array.prototype.includes.apply(this,arguments)}}),Object.defineProperty(Array.prototype,"containsAll",{configurable:!0,writable:!0,value:function(){if(null==this)throw new TypeError("Array.prototype.containsAll called on null or undefined");return Array.prototype.includesAll.apply(this,arguments)}}),Object.defineProperty(Array.prototype,"containsAny",{configurable:!0,writable:!0,value:function(){if(null==this)throw new TypeError("Array.prototype.containsAny called on null or undefined");return Array.prototype.includesAny.apply(this,arguments)}}),Object.defineProperty(Array.prototype,"flatten",{configurable:!0,writable:!0,value:function(){if(null==this)throw new TypeError("Array.prototype.flatten called on null or undefined");return Array.prototype.flat.call(this,1/0)}}),Object.defineProperty(String.prototype,"readBracketedList",{configurable:!0,writable:!0,value:function(){if(null==this)throw new TypeError("String.prototype.readBracketedList called on null or undefined");for(var e=new RegExp("(?:\\[\\[((?:\\s|\\S)*?)\\]\\])|([^\"'\\s]\\S*)","gm"),t=[],r=void 0;null!==(r=e.exec(this));)r[1]?t.push(r[1]):r[2]&&t.push(r[2]);return t}})}();var Browser=function(){var e=navigator.userAgent.toLowerCase(),t=e.includes("windows phone"),r=Object.freeze({Android:!t&&e.includes("android"),BlackBerry:/blackberry|bb10/.test(e),iOS:!t&&/ip(?:hone|ad|od)/.test(e),Opera:!t&&("object"===_typeof(window.operamini)||e.includes("opera mini")),Windows:t||/iemobile|wpdesktop/.test(e),any:function(){return r.Android||r.BlackBerry||r.iOS||r.Opera||r.Windows}}),n=!r.Windows&&!/khtml|trident|edge/.test(e)&&e.includes("gecko"),a=!e.includes("opera")&&/msie|trident/.test(e),i=a?function(){var t=/(?:msie\s+|rv:)(\d+\.\d)/.exec(e);return t?Number(t[1]):0}():null,o=e.includes("opera")||e.includes(" opr/"),s=o?function(){var t=new RegExp((/khtml|chrome/.test(e)?"opr":"version")+"\\/(\\d+\\.\\d+)"),r=t.exec(e);return r?Number(r[1]):0}():null,u=e.includes("vivaldi");return Object.freeze({userAgent:e,isMobile:r,isGecko:n,isIE:a,ieVersion:i,isOpera:o,operaVersion:s,isVivaldi:u})}(),Has=function(){var e=function(){try{return"function"==typeof document.createElement("audio").canPlayType}catch(e){}return!1}(),t=function(){try{return"Blob"in window&&"File"in window&&"FileList"in window&&"FileReader"in window&&(!Browser.isOpera||Browser.operaVersion>=15)}catch(e){}return!1}(),r=function(){try{return"geolocation"in navigator&&"function"==typeof navigator.geolocation.getCurrentPosition&&"function"==typeof navigator.geolocation.watchPosition}catch(e){}return!1}(),n=function(){try{return"MutationObserver"in window&&"function"==typeof window.MutationObserver}catch(e){}return!1}(),a=function(){try{return"performance"in window&&"function"==typeof window.performance.now}catch(e){}return!1}(),i=function(){try{return"ontouchstart"in window||!!window.DocumentTouch&&document instanceof window.DocumentTouch||!!navigator.maxTouchPoints||!!navigator.msMaxTouchPoints}catch(e){}return!1}(),o=function(){try{for(var e=new Map([["transition","transitionend"],["MSTransition","msTransitionEnd"],["WebkitTransition","webkitTransitionEnd"],["MozTransition","transitionend"]]),t=[].concat(_toConsumableArray(e.keys())),r=document.createElement("div"),n=0;n<t.length;++n)if(r.style[t[n]]!==undefined)return e.get(t[n])}catch(e){}return!1}();return Object.freeze({audio:e,fileAPI:t,geolocation:r,mutationObserver:n,performance:a,touch:i,transitionEndEvent:o})}(),Visibility=function(){function e(){return a}function t(){return a&&document[a.stateProperty]||"visible"}function r(){return Boolean(a)}function n(){return Boolean(a&&document[a.hiddenProperty])}var a=function(){try{return Object.freeze([{hiddenProperty:"hidden",stateProperty:"visibilityState",changeEvent:"visibilitychange"},{hiddenProperty:"webkitHidden",stateProperty:"webkitVisibilityState",changeEvent:"webkitvisibilitychange"},{hiddenProperty:"mozHidden",stateProperty:"mozVisibilityState",changeEvent:"mozvisibilitychange"},{hiddenProperty:"msHidden",stateProperty:"msVisibilityState",changeEvent:"msvisibilitychange"}].find(function(e){return e.hiddenProperty in document}))}catch(e){}return undefined}();return Object.freeze(Object.defineProperties({},{vendor:{get:e},state:{get:t},isEnabled:{value:r},isHidden:{value:n},hiddenProperty:{value:a&&a.hiddenProperty},stateProperty:{value:a&&a.stateProperty},changeEvent:{value:a&&a.changeEvent}}))}(),Fullscreen=function(){function e(e){var t=e||document.documentElement;return t===document.documentElement&&("msRequestFullscreen"===f.requestFn||Browser.isOpera&&Browser.operaVersion<15)&&(t=document.body),t}function t(){return f}function r(){return(f||null)&&document[f.element]}function n(){return Boolean(f&&document[f.isEnabled])}function a(){return Boolean(f&&document[f.element])}function i(t,r){var n=this;if(!f)return Promise.reject(new Error("fullscreen not supported"));var i=e(r);if("function"!=typeof i[f.requestFn])return Promise.reject(new Error("fullscreen not supported"));if(a())return Promise.resolve();if(p())return i[f.requestFn](t);var o=".Fullscreen_requestFullscreen";return new Promise(function(e,r){jQuery(i).off(o).one(""+f.errorEvent+o+" "+f.changeEvent+o,function(t){jQuery(n).off(o),t.type===f.errorEvent?r(new Error("unknown fullscreen request error")):e()}),i[f.requestFn](t)})}function o(){var e=this;if(!f||"function"!=typeof document[f.exitFn])return Promise.reject(new TypeError("fullscreen not supported"));if(!a())return Promise.reject(new TypeError("fullscreen mode not active"));if(p())return document[f.exitFn]();var t=".Fullscreen_exitFullscreen";return new Promise(function(r,n){jQuery(document).off(t).one(""+f.errorEvent+t+" "+f.changeEvent+t,function(a){jQuery(e).off(t),a.type===f.errorEvent?n(new Error("unknown fullscreen exit error")):r()}),document[f.exitFn]()})}function s(e,t){return a()?o():i(e,t)}function u(t,r){if(f){var n=e(r);$(n).on(f.changeEvent,t)}}function l(t,r){if(f){var n=e(r);t?$(n).off(f.changeEvent,t):$(n).off(f.changeEvent)}}function c(t,r){if(f){var n=e(r);$(n).on(f.errorEvent,t)}}function d(t,r){if(f){var n=e(r);t?$(n).off(f.errorEvent,t):$(n).off(f.errorEvent)}}var f=function(){try{return Object.freeze([{isEnabled:"fullscreenEnabled",element:"fullscreenElement",requestFn:"requestFullscreen",exitFn:"exitFullscreen",changeEvent:"fullscreenchange",errorEvent:"fullscreenerror"},{isEnabled:"webkitFullscreenEnabled",element:"webkitFullscreenElement",requestFn:"webkitRequestFullscreen",exitFn:"webkitExitFullscreen",changeEvent:"webkitfullscreenchange",errorEvent:"webkitfullscreenerror"},{isEnabled:"mozFullScreenEnabled",element:"mozFullScreenElement",requestFn:"mozRequestFullScreen",exitFn:"mozCancelFullScreen",changeEvent:"mozfullscreenchange",errorEvent:"mozfullscreenerror"},{isEnabled:"msFullscreenEnabled",element:"msFullscreenElement",requestFn:"msRequestFullscreen",exitFn:"msExitFullscreen",changeEvent:"MSFullscreenChange",errorEvent:"MSFullscreenError"}].find(function(e){return e.isEnabled in document}))}catch(e){}return undefined}(),p=function(){function e(){if(null!==t)return t;if(t=!1,f)try{var e=document.exitFullscreen();e.catch(function(){}),t=e instanceof Promise}catch(e){}return t}var t=null;return e}();return Object.freeze(Object.defineProperties({},{vendor:{get:t},element:{get:r},isEnabled:{value:n},isFullscreen:{value:a},request:{value:i},exit:{value:o},toggle:{value:s},onChange:{value:u},offChange:{value:l},onError:{value:c},offError:{value:d}}))}(),_ref3=function(){function e(e){for(var t=e.cloneNode(!0),r=document.createDocumentFragment(),n=void 0;null!==(n=t.firstChild);){if(n.nodeType===Node.ELEMENT_NODE)switch(n.nodeName.toUpperCase()){case"BR":case"DIV":case"P":r.appendChild(document.createTextNode(" "))}r.appendChild(n)}return r.textContent}function t(e){if("object"!==(void 0===e?"undefined":_typeof(e))||null===e)return e;if(e instanceof String)return String(e);if(e instanceof Number)return Number(e);if(e instanceof Boolean)return Boolean(e)
